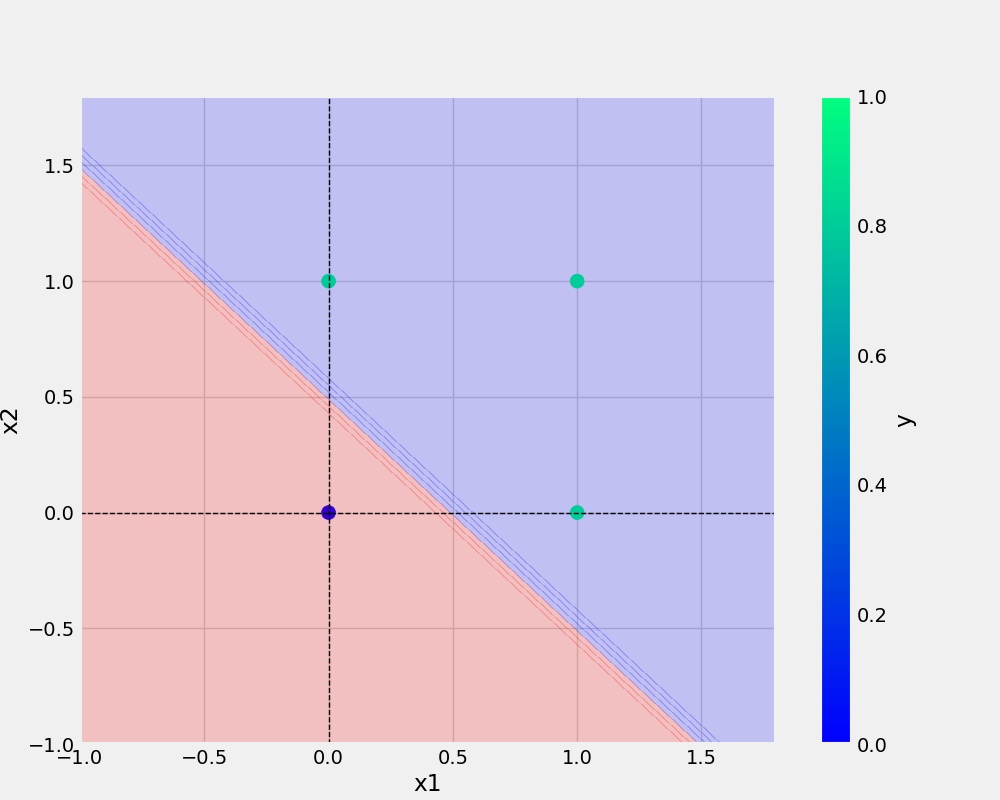
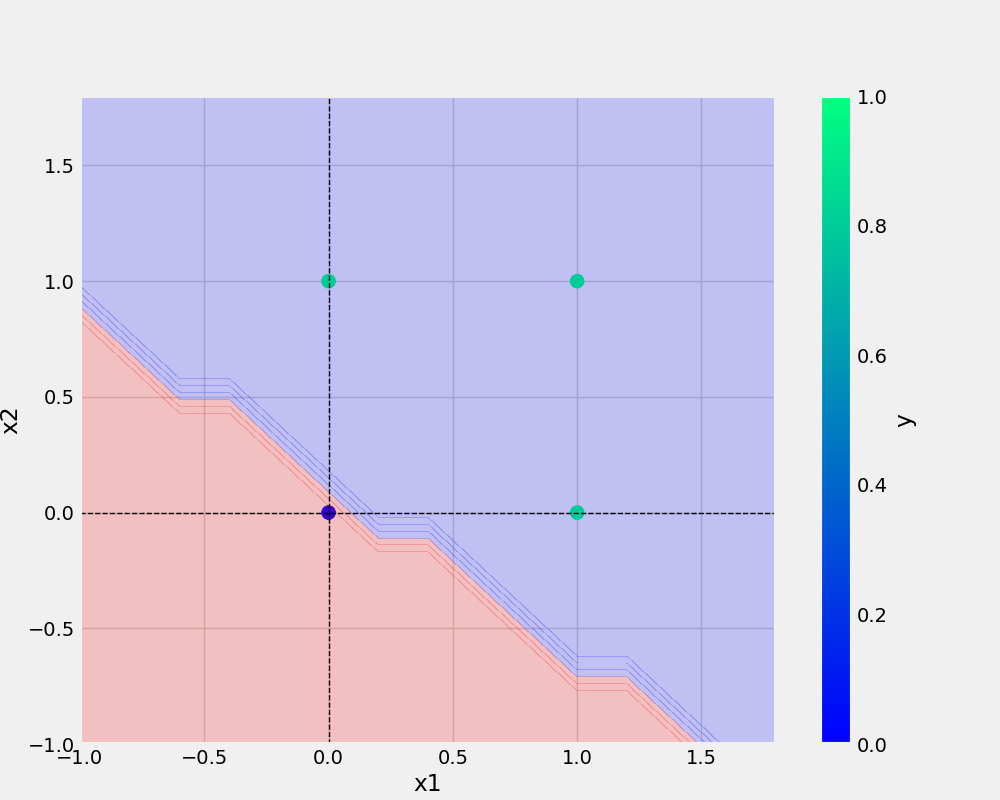
added main()

Changed region(s): [[0.062, 0.1875, 0.62, 0.875]]

diff --git a/nand.py b/nand.py
@@ -1,21 +1,24 @@
 from utils.model import Perceptron
 from utils.all_utils import *
 
-NAND = {
-    "x1": [0,0,1,1],
-    "x2": [0,1,0,1],
-    "y": [1,1,1,0],
-}
+def main(df_name, learning_rate, epochs, filename):
+    X, y, _ = prepare_data(df_name)
 
-X, y, _ = prepare_data(df_name=NAND)
+    model_OR = Perceptron(learning_rate=learning_rate, epochs=epochs)
+    model_OR.fit(X, y)
+    _ = model_OR.total_loss()
 
-LR = 0.3
-EPOCHS = 10
+    save_model(model_OR, filename)
+    save_plot(df_name, filename, model_OR)
 
-model_NAND = Perceptron(learning_rate=LR, epochs=EPOCHS)
-model_NAND.fit(X, y)
-_ = model_NAND.total_loss()
+if __name__ == '__main__':
+    NAND = {
+        "x1": [0,0,1,1],
+        "x2": [0,1,0,1],
+        "y": [1,1,1,0],
+    }
 
-filename = "nand_model"
-save_model(model_NAND, filename)
-save_plot(NAND, filename, model_NAND)
+    LR = 1e-4
+    EPOCHS = 10
+    
+    main(df_name=NAND, learning_rate=LR, epochs=EPOCHS, filename="nand_model")

diff --git a/and.py b/and.py
@@ -1,21 +1,24 @@
 from utils.model import Perceptron
 from utils.all_utils import *
 
-AND = {
-    "x1": [0,0,1,1],
-    "x2": [0,1,0,1],
-    "y": [0,0,0,1]
-}
+def main(df_name, learning_rate, epochs, filename):
+    X, y, _ = prepare_data(df_name)
 
-X, y, _ = prepare_data(df_name=AND)
+    model_AND = Perceptron(learning_rate=learning_rate, epochs=epochs)
+    model_AND.fit(X, y)
+    _ = model_AND.total_loss()
 
-LR = 1e-4
-EPOCHS = 10
+    save_model(model_AND, filename)
+    save_plot(df_name, filename, model_AND)
 
-model_AND = Perceptron(learning_rate=LR, epochs=EPOCHS)
-model_AND.fit(X, y)
-_ = model_AND.total_loss()
+if __name__ == '__main__':
+    AND = {
+        "x1": [0,0,1,1],
+        "x2": [0,1,0,1],
+        "y": [0,0,0,1]
+    }
 
-filename = "and_model"
-save_model(model_AND, filename)
-save_plot(AND, filename, model_AND)
+    LR = 1e-4
+    EPOCHS = 10
+    
+    main(df_name=AND, learning_rate=LR, epochs=EPOCHS, filename="and_model")

diff --git a/xor.py b/xor.py
@@ -1,21 +1,24 @@
 from utils.model import Perceptron
 from utils.all_utils import *
 
-XOR = {
-    "x1": [0,0,1,1],
-    "x2": [0,1,0,1],
-    "y": [0,1,1,0],
-}
+def main(df_name, learning_rate, epochs, filename):
+    X, y, _ = prepare_data(df_name)
 
-X, y, _ = prepare_data(df_name=XOR)
+    model_OR = Perceptron(learning_rate=learning_rate, epochs=epochs)
+    model_OR.fit(X, y)
+    _ = model_OR.total_loss()
 
-LR = 0.3
-EPOCHS = 10
+    save_model(model_OR, filename)
+    save_plot(df_name, filename, model_OR)
 
-model_XOR = Perceptron(learning_rate=LR, epochs=EPOCHS)
-model_XOR.fit(X, y)
-_ = model_XOR.total_loss()
+if __name__ == '__main__':
+    XOR = {
+        "x1": [0,0,1,1],
+        "x2": [0,1,0,1],
+        "y": [0,1,1,0],
+    }
 
-filename = "xor_model"
-save_model(model_XOR, filename)
-save_plot(XOR, filename, model_XOR)
+    LR = 1e-4
+    EPOCHS = 10
+    
+    main(df_name=XOR, learning_rate=LR, epochs=EPOCHS, filename="xor_model")

diff --git a/or.py b/or.py
@@ -1,21 +1,24 @@
 from utils.model import Perceptron
 from utils.all_utils import *
 
-OR = {
-    "x1": [0,0,1,1],
-    "x2": [0,1,0,1],
-    "y": [0,1,1,1],
-}
+def main(df_name, learning_rate, epochs, filename):
+    X, y, _ = prepare_data(df_name)
 
-X, y, _ = prepare_data(df_name=OR)
+    model_OR = Perceptron(learning_rate=learning_rate, epochs=epochs)
+    model_OR.fit(X, y)
+    _ = model_OR.total_loss()
 
-LR = 0.3
-EPOCHS = 10
+    save_model(model_OR, filename)
+    save_plot(df_name, filename, model_OR)
 
-model_OR = Perceptron(learning_rate=LR, epochs=EPOCHS)
-model_OR.fit(X, y)
-_ = model_OR.total_loss()
+if __name__ == '__main__':
+    OR = {
+        "x1": [0,0,1,1],
+        "x2": [0,1,0,1],
+        "y": [0,1,1,1],
+    }
 
-filename = "or_model"
-save_model(model_OR, filename)
-save_plot(OR, filename, model_OR)
+    LR = 1e-4
+    EPOCHS = 10
+    
+    main(df_name=OR, learning_rate=LR, epochs=EPOCHS, filename="or_model")
